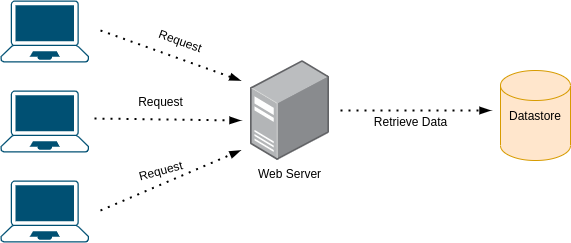
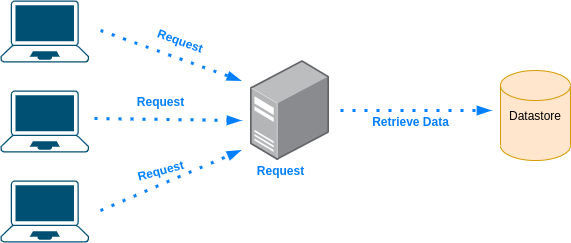
Add explanation on CDN

diff --git a/README.md b/README.md
@@ -56,7 +56,9 @@
 * Extensibility
 * Loose Coupling
 * Proxy
-* CDN
+* Storage
+  * RAID
+* [CDN](#CDN)
 * [DNS](#DNS)
 * Networking
   * IP
@@ -189,6 +191,19 @@ The number of tasks/actions per unit of time
 In other words, the most common use can of a DNS would be a address translation. It can be from a hostname to IP address and vice versa - from an IP address to a hostname.
 In addition, a DNS can be used for load balancing, using the round robin technique.
 
+### CDN
+
+[Cloudflare](https://www.cloudflare.com/en-gb/learning/cdn/what-is-a-cdn): "A content delivery network (CDN) refers to a geographically distributed group of servers which work together to provide fast delivery of Internet content."
+
+In other words, a content delivery network allows you to quickly transfer content by having servers with the content around the world or certain area. The client then, access these servers instead of the main server where the data originates from.
+
+<p align="center">
+<img src="images/cdn/cdn.png"/>
+</p>
+
+
+
+
 ## Exercises
 
 Note: The names of the exercises are quotes from movies (sometimes little bit modified). If you can guess from which movie, please submit it to movies.md file in this way: [QUOTE] [MOVIE] [YOUR NAME]<br>
@@ -235,7 +250,7 @@ Vertical scaling has limitations. You can't keep adding RAM, storage and CPU end
 
 * How to improve:<br>
   <p align="center">
-  <img src="images/design/one_request_too_many_2.png"/>
+  <img src="images/design/basic_architecture_with_load_balancer.png"/>
   </p>
 
 * Further limitations:
@@ -472,6 +487,11 @@ No, you can use a DNS server.
 </summary><br><b>
 </b></details>
 
+<details>
+<summary>Which load balancing technique would you use for e-commerce website? Why?</summary><br><b>
+
+One that supports sticky sessions so users returning to the website, would have their data loaded, in case the server don't use shared storage.
+</b></details>
 
 ### Cache
 
@@ -516,6 +536,18 @@ So basically the latency of L2 cache reference is 14x L1 cache reference.
 
 <details>
 <summary>Can you use DNS for load balancing?</summary><br><b>
+</b></details>
+
+### Storage
+
+<details>
+<summary>What is RAID?</summary><br><b>
+</b></details>
+
+### DNS
+
+<details>
+<summary>What is CDN?</summary><br><b>
 </b></details>
 
 ### Misc
